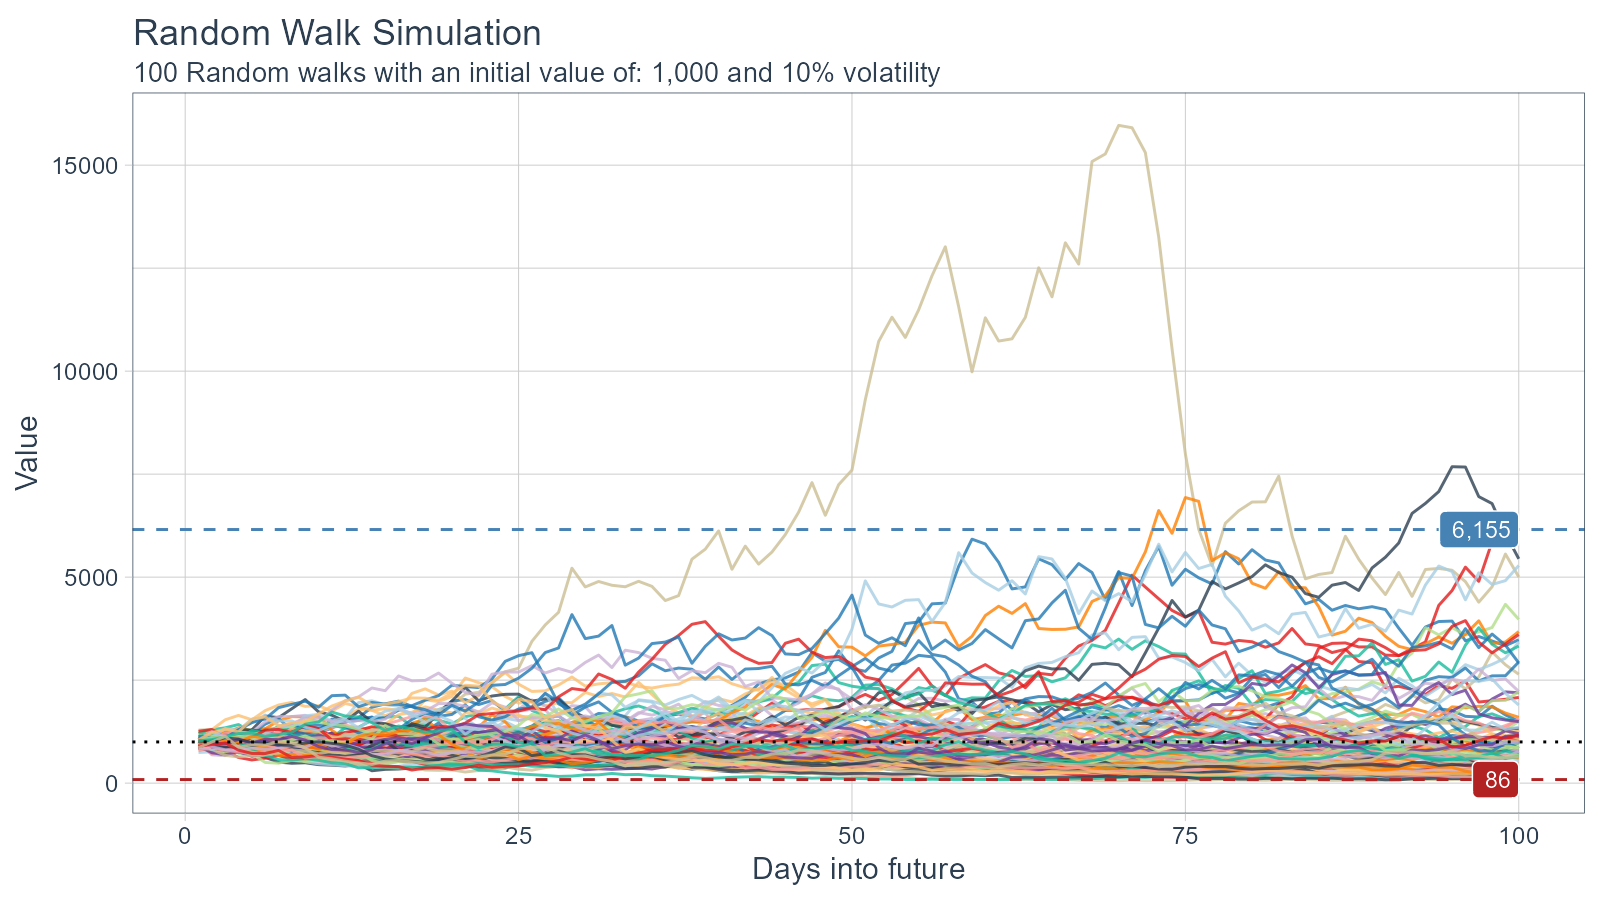
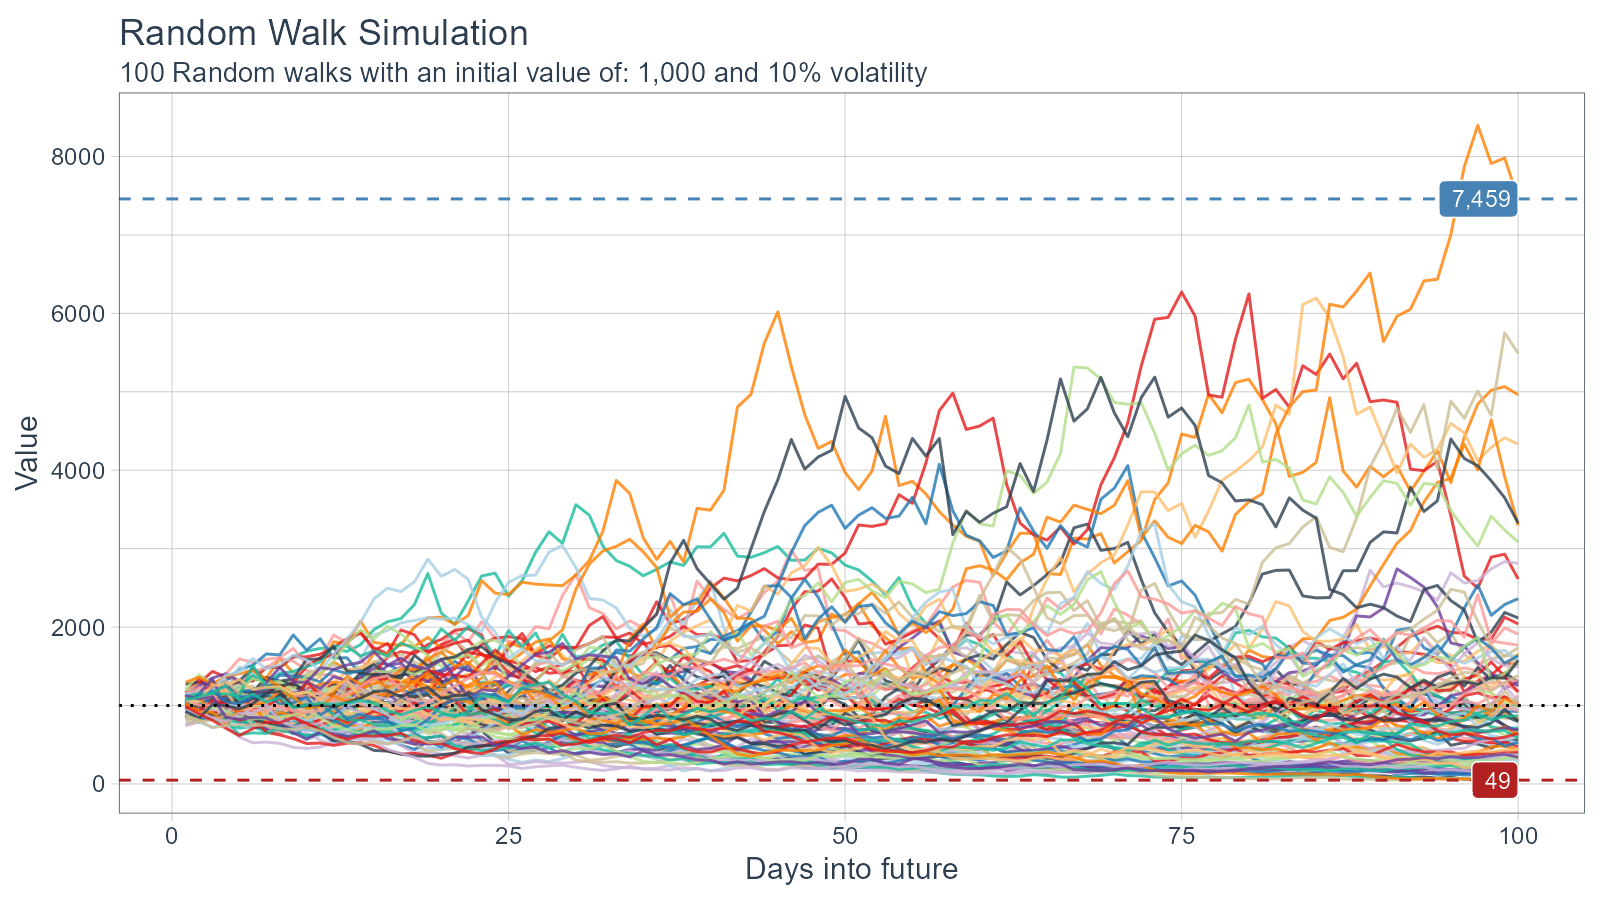
fix documentation

diff --git a/docs/articles/getting-started.html b/docs/articles/getting-started.html
@@ -112,21 +112,21 @@
 <code class="sourceCode R"><span class="va">df</span> <span class="op">&lt;-</span> <span class="fu"><a href="../reference/ts_random_walk.html">ts_random_walk</a></span><span class="op">(</span><span class="op">)</span>
 <span class="fu"><a href="https://rdrr.io/r/utils/head.html">head</a></span><span class="op">(</span><span class="va">df</span><span class="op">)</span>
 <span class="co">#&gt; # A tibble: 6 x 4</span>
-<span class="co">#&gt;     run     x        y cum_y</span>
-<span class="co">#&gt;   &lt;dbl&gt; &lt;dbl&gt;    &lt;dbl&gt; &lt;dbl&gt;</span>
-<span class="co">#&gt; 1     1     1 -0.0621   938.</span>
-<span class="co">#&gt; 2     1     2 -0.0333   907.</span>
-<span class="co">#&gt; 3     1     3 -0.00382  903.</span>
-<span class="co">#&gt; 4     1     4 -0.150    768.</span>
-<span class="co">#&gt; 5     1     5 -0.0303   745.</span>
-<span class="co">#&gt; 6     1     6 -0.163    624.</span>
+<span class="co">#&gt;     run     x      y cum_y</span>
+<span class="co">#&gt;   &lt;dbl&gt; &lt;dbl&gt;  &lt;dbl&gt; &lt;dbl&gt;</span>
+<span class="co">#&gt; 1     1     1 0.0344 1034.</span>
+<span class="co">#&gt; 2     1     2 0.0473 1083.</span>
+<span class="co">#&gt; 3     1     3 0.0724 1162.</span>
+<span class="co">#&gt; 4     1     4 0.0375 1205.</span>
+<span class="co">#&gt; 5     1     5 0.0826 1305.</span>
+<span class="co">#&gt; 6     1     6 0.0152 1325.</span>
 <span class="fu"><a href="https://pillar.r-lib.org/reference/glimpse.html">glimpse</a></span><span class="op">(</span><span class="va">df</span><span class="op">)</span>
 <span class="co">#&gt; Rows: 10,000</span>
 <span class="co">#&gt; Columns: 4</span>
 <span class="co">#&gt; $ run   &lt;dbl&gt; 1, 1, 1, 1, 1, 1, 1, 1, 1, 1, 1, 1, 1, 1, 1, 1, 1, 1, 1, 1, 1, 1~</span>
 <span class="co">#&gt; $ x     &lt;dbl&gt; 1, 2, 3, 4, 5, 6, 7, 8, 9, 10, 11, 12, 13, 14, 15, 16, 17, 18, 1~</span>
-<span class="co">#&gt; $ y     &lt;dbl&gt; -0.062087495, -0.033335334, -0.003820026, -0.149596711, -0.03026~</span>
-<span class="co">#&gt; $ cum_y &lt;dbl&gt; 937.9125, 906.6469, 903.1835, 768.0702, 744.8252, 623.6178, 509.~</span></code></pre></div>
+<span class="co">#&gt; $ y     &lt;dbl&gt; 0.034402716, 0.047292369, 0.072432705, 0.037457308, 0.082644776,~</span>
+<span class="co">#&gt; $ cum_y &lt;dbl&gt; 1034.4027, 1083.3221, 1161.7900, 1205.3075, 1304.9199, 1324.7088~</span></code></pre></div>
 <p>Now that the data has been generated, lets take a look at it.</p>
 <div class="sourceCode" id="cb3"><pre class="downlit sourceCode r">
 <code class="sourceCode R"><span class="va">df</span> <span class="op">%&gt;%</span>

diff --git a/docs/reference/ts_auto_recipe.html b/docs/reference/ts_auto_recipe.html
@@ -41,7 +41,7 @@
 
 <meta property="og:title" content="Build a Time Series Recipe — ts_auto_recipe" />
 <meta property="og:description" content="Automatically builds generic time series recipe objects from a given
-recipe." />
+tibble." />
 
 
 
@@ -142,7 +142,7 @@ recipe." />
 
     <div class="ref-description">
     <p>Automatically builds generic time series recipe objects from a given
-recipe.</p>
+tibble.</p>
     </div>
 
     <pre class="usage"><span class='fu'>ts_auto_recipe</span><span class='op'>(</span>
@@ -228,7 +228,7 @@ on all predictors.</p></td>
     <h2 class="hasAnchor" id="details"><a class="anchor" href="#details"></a>Details</h2>
 
     <p>This will build out a couple of generic recipe objects and return those items
-in a list. It is required to pass a recipe object to this function.</p>
+in a list.</p>
     <h2 class="hasAnchor" id="author"><a class="anchor" href="#author"></a>Author</h2>
 
     <p>Steven P. Sanderson II, MPH</p>
@@ -253,7 +253,7 @@ in a list. It is required to pass a recipe object to this function.</p>
 
 <span class='va'>data_tbl</span> <span class='op'>&lt;-</span> <span class='va'>healthyR_data</span> <span class='op'>%&gt;%</span>
 <span class='fu'><a href='https://rdrr.io/pkg/timetk/man/filter_by_time.html'>filter_by_time</a></span><span class='op'>(</span>
-    .date_var     <span class='op'>=</span> <span class='va'>visit_end_date_time</span>
+    .date_var  <span class='op'>=</span> <span class='va'>visit_end_date_time</span>
  , .start_date <span class='op'>=</span> <span class='st'>"2012"</span>
  , .end_date   <span class='op'>=</span> <span class='st'>"2020"</span>
 <span class='op'>)</span> <span class='op'>%&gt;%</span>
